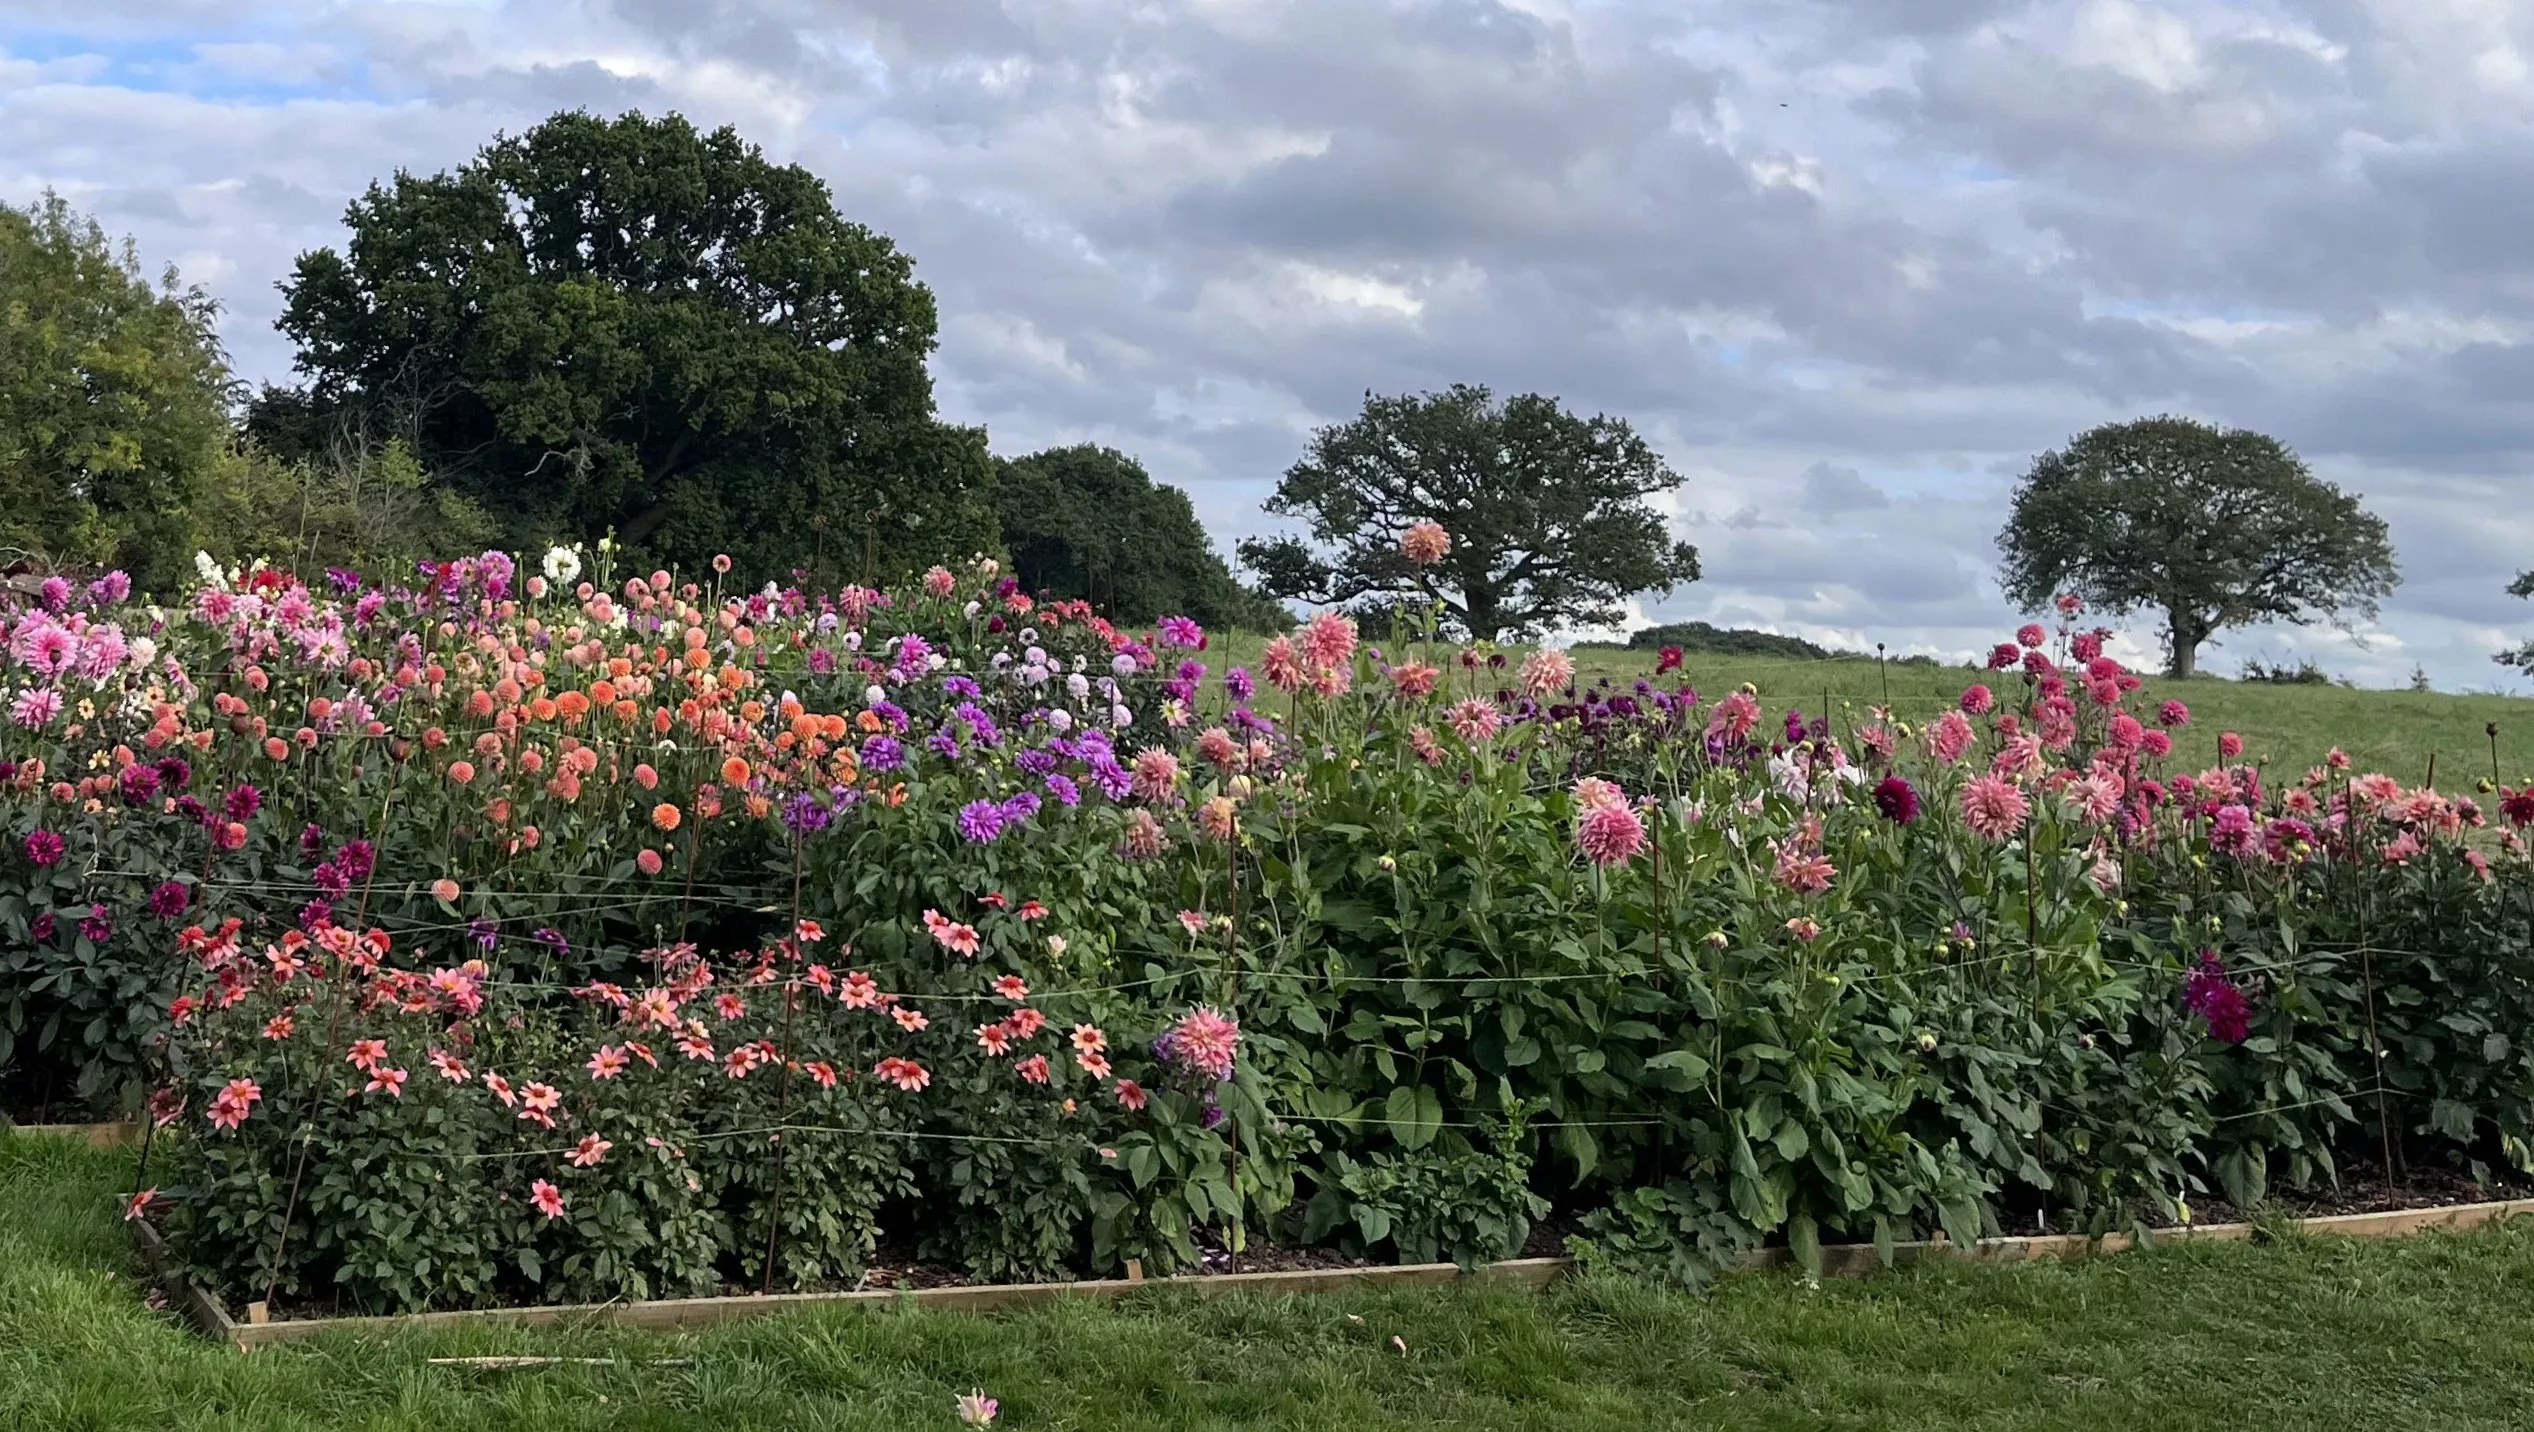
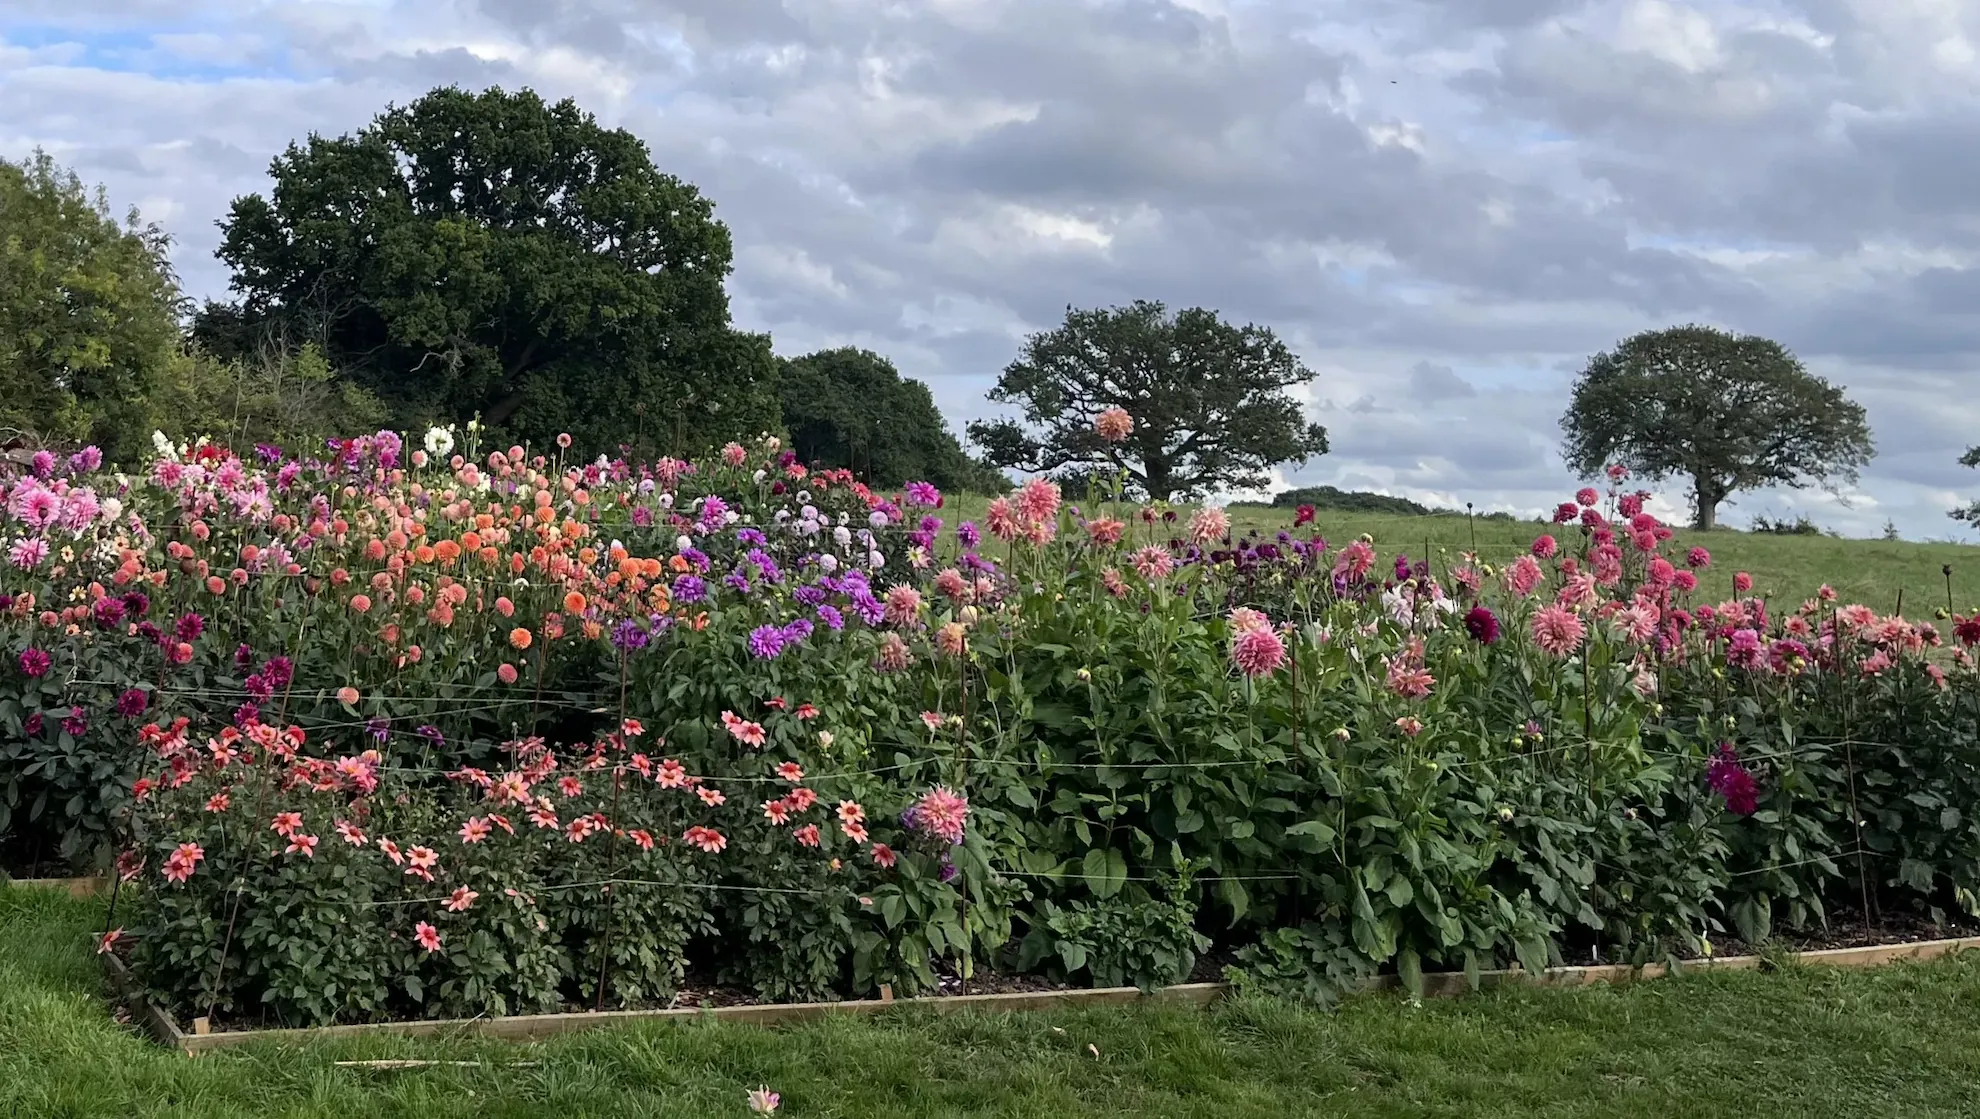
moreimage webp

diff --git a/index.html b/index.html
@@ -294,7 +294,7 @@
                     </div>
                     
                     <div class="gallery-item">
-                        <a href="images/wphoto.jpg" class="lightbox-trigger">
+                        <a href="images/wphoto.webp" class="lightbox-trigger">
                             <img src="images/wphoto.jpg" alt="Close-up of autumn dahlia petals and foliage showing rich seasonal texture and warm tones">
                             <div class="gallery-overlay"><span>Autumn Textures</span></div>
                         </a>